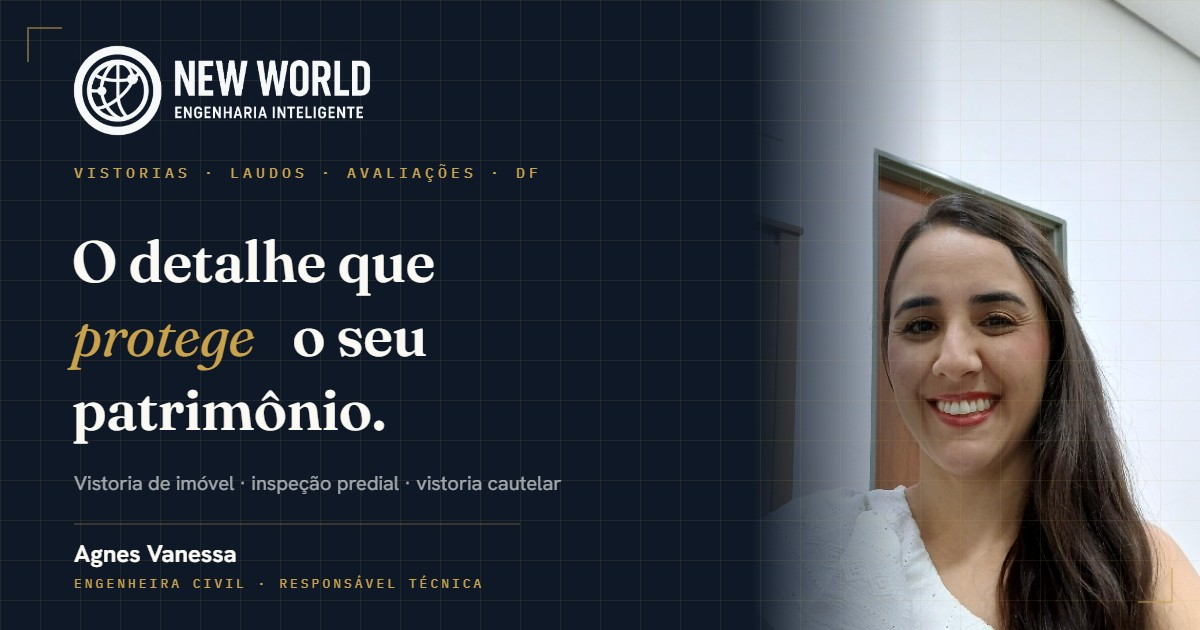
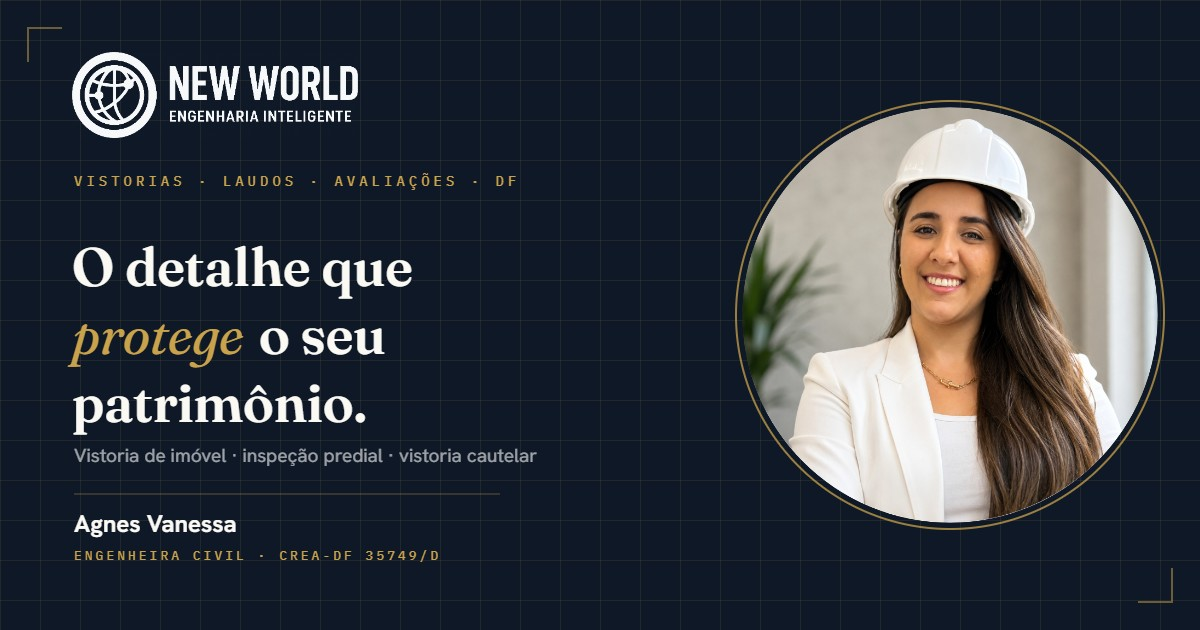
Retrato novo, CREA e pagina de politica de privacidade
Foto profissional de capacete substitui a selfie. Como ela ja vem recortada
em circulo sobre branco, o recorte virou WebP com alfa e a moldura do "Sobre"
passou a exibir o circulo com anel dourado sobre malha tecnica, em vez de
tentar encaixar um quadrado branco num fundo navy. Mesmo retrato alimenta o
avatar do hero e o card de compartilhamento.

CREA-DF 35749/D entra na faixa de credenciais, no "Sobre", no rodape, no card
e no JSON-LD. Numero tirado da politica de privacidade publicada pela Agnes.

A politica saiu do Notion e virou privacidade.html no proprio dominio: o link
publico do Notion mostra banner de "crie sua conta gratuita" para quem clica,
o que nao cabe num site profissional. Texto dela transposto na integra, mais
duas secoes de fato sobre este site (nao ha formularios, cookies nem analytics;
as fontes vem do Google Fonts, que recebe o IP; hospedagem no GitHub Pages) e
sobre as imagens de vistoria publicadas.

diff --git a/privacidade.html b/privacidade.html
@@ -1,0 +1,111 @@
+<!DOCTYPE html>
+<html lang="pt-BR">
+<head>
+<meta charset="UTF-8">
+<meta name="viewport" content="width=device-width, initial-scale=1.0">
+<title>Política de Privacidade · New World Engenharia</title>
+<meta name="description" content="Como a New World Engenharia trata os dados pessoais de clientes e visitantes, em conformidade com a LGPD.">
+<meta name="robots" content="index, follow">
+<meta name="theme-color" content="#0E1826">
+<link rel="canonical" href="https://alexanderjr02.github.io/Site-Agnes-engenheira/privacidade.html">
+<link rel="icon" type="image/png" href="assets/favicon.png">
+<link rel="apple-touch-icon" href="assets/apple-touch-icon.png">
+
+<link rel="preconnect" href="https://fonts.googleapis.com">
+<link rel="preconnect" href="https://fonts.gstatic.com" crossorigin>
+<link href="https://fonts.googleapis.com/css2?family=Fraunces:ital,opsz,wght@0,9..144,400;0,9..144,500;0,9..144,600;1,9..144,400&family=Hanken+Grotesk:wght@400;500;600;700&family=IBM+Plex+Mono:wght@400;500&display=swap" rel="stylesheet">
+<link rel="stylesheet" href="styles.css">
+</head>
+<body>
+
+<header id="hdr" class="scrolled">
+  <div class="wrap nav">
+    <a href="index.html" class="brand">
+      <img class="globe" src="assets/logo-mark.webp" width="128" height="128" alt="" decoding="async">
+      <span>New World<small>Engenharia</small></span>
+    </a>
+    <a class="btn ghost" href="index.html">Voltar ao site</a>
+  </div>
+</header>
+
+<section class="sec legal">
+  <div class="wrap">
+    <span class="eyebrow">Documento</span>
+    <h1>Política de Privacidade</h1>
+    <p class="legal-meta">Última atualização: 3 de julho de 2026</p>
+
+    <p class="legal-intro">A New World Engenharia Inteligente, de responsabilidade de Agnes Vanessa
+    (Engenheira Civil, CREA-DF 35749/D), respeita a privacidade de seus clientes e visitantes, em
+    conformidade com a Lei Geral de Proteção de Dados (LGPD, Lei 13.709/2018).</p>
+
+    <h2>1. Quais dados coletamos</h2>
+    <p>Ao preencher formulários de contato, anúncios ou solicitar orçamentos, podemos coletar:</p>
+    <ul>
+      <li>Nome completo</li>
+      <li>Telefone e WhatsApp</li>
+      <li>E-mail</li>
+      <li>Cidade e bairro do imóvel</li>
+      <li>Informações sobre o serviço de interesse (vistoria, regularização, projeto, licenciamento, entre outros)</li>
+    </ul>
+
+    <h2>2. Para que usamos esses dados</h2>
+    <ul>
+      <li>Entrar em contato para apresentar orçamentos e esclarecer dúvidas</li>
+      <li>Prestar os serviços de engenharia, vistoria e regularização contratados</li>
+      <li>Enviar comunicações sobre nossos serviços, quando autorizado pelo titular</li>
+      <li>Cumprir obrigações legais e regulatórias perante o CREA-DF e demais órgãos aplicáveis</li>
+    </ul>
+
+    <h2>3. Compartilhamento de dados</h2>
+    <p>Não vendemos nem compartilhamos seus dados com terceiros para fins de marketing. Dados podem
+    ser compartilhados apenas com parceiros técnicos estritamente necessários para a execução do
+    serviço contratado, como despachantes e arquitetos parceiros, sempre resguardando o sigilo
+    profissional.</p>
+
+    <h2>4. Armazenamento e segurança</h2>
+    <p>Seus dados são armazenados de forma segura e mantidos apenas pelo tempo necessário para
+    cumprir a finalidade para a qual foram coletados, ou conforme exigido por lei.</p>
+
+    <h2>5. Seus direitos</h2>
+    <p>Você pode, a qualquer momento, solicitar acesso, correção, portabilidade ou exclusão dos seus
+    dados pessoais, entrando em contato pelos canais informados abaixo.</p>
+
+    <h2>6. Sobre este site</h2>
+    <p>Esta página descreve o funcionamento técnico deste site especificamente:</p>
+    <ul>
+      <li>O site não possui formulários. Todo contato acontece por WhatsApp, por meio dos botões da página.</li>
+      <li>O site não usa cookies próprios, não faz rastreamento e não possui ferramentas de análise de audiência.</li>
+      <li>As fontes tipográficas são carregadas do serviço Google Fonts. Para entregá-las, o Google
+      recebe o endereço de IP do visitante, conforme a política de privacidade do próprio Google.</li>
+      <li>A hospedagem é feita pelo GitHub Pages, que mantém registros de acesso ao servidor.</li>
+      <li>Os botões de WhatsApp e Instagram levam a serviços de terceiros, que possuem políticas de
+      privacidade próprias.</li>
+    </ul>
+
+    <h2>7. Imagens de vistoria</h2>
+    <p>As fotografias de imóveis publicadas neste site são registros de vistorias realizadas,
+    divulgadas mediante autorização e sem qualquer identificação de endereço, documento ou
+    proprietário. O titular pode solicitar a remoção de uma imagem a qualquer momento pelos canais
+    de contato.</p>
+
+    <h2>8. Contato</h2>
+    <p>Dúvidas sobre esta política podem ser enviadas pelo
+    <a href="https://wa.me/5561996523362?text=Ol%C3%A1!%20Tenho%20uma%20d%C3%BAvida%20sobre%20a%20pol%C3%ADtica%20de%20privacidade." target="_blank" rel="noopener">WhatsApp (61) 99652-3362</a>
+    ou pelo perfil oficial no Instagram
+    <a href="https://www.instagram.com/newworldengenhariainteligente" target="_blank" rel="noopener">@newworldengenhariainteligente</a>.</p>
+
+    <a class="btn" href="index.html" style="margin-top:40px">Voltar ao site</a>
+  </div>
+</section>
+
+<footer>
+  <div class="wrap">
+    <div class="foot-bottom" style="border-top:0;margin-top:0;padding-top:0">
+      <p>© 2026 New World Engenharia · Todos os direitos reservados</p>
+      <p>Agnes Vanessa · Engenheira Civil · CREA-DF 35749/D</p>
+    </div>
+  </div>
+</footer>
+
+</body>
+</html>

diff --git a/index.html b/index.html
@@ -34,7 +34,7 @@
   "name":"New World Engenharia",
   "description":"Vistoria de imóvel, vistoria cautelar, inspeção predial, avaliação de imóveis e regularização no DF e entorno.",
   "areaServed":"Distrito Federal e entorno",
-  "founder":{"@type":"Person","name":"Agnes Vanessa","jobTitle":"Engenheira Civil"},
+  "founder":{"@type":"Person","name":"Agnes Vanessa","jobTitle":"Engenheira Civil","identifier":"CREA-DF 35749/D"},
   "telephone":"+5561996523362",
   "url":"https://alexanderjr02.github.io/Site-Agnes-engenheira/",
   "sameAs":["https://www.instagram.com/newworldengenhariainteligente"]
@@ -137,6 +137,7 @@
     <span>Avaliação de imóveis</span>
     <span>Patologia da construção</span>
     <span>Laudo técnico assinado</span>
+    <span>CREA-DF 35749/D</span>
     <span>Atendimento no DF e entorno</span>
   </div>
 </div>
@@ -365,12 +366,13 @@
   <div class="wrap">
     <div class="about-grid">
       <div class="portrait reg rev">
-        <img src="assets/agnes.webp" width="900" height="1125" loading="lazy" decoding="async" alt="Agnes Vanessa, Engenheira Civil da New World Engenharia">
+        <img src="assets/agnes.webp" width="760" height="760" loading="lazy" decoding="async" alt="Agnes Vanessa, Engenheira Civil da New World Engenharia, de capacete branco">
       </div>
       <div class="rev">
         <span class="eyebrow">Quem assina o seu laudo</span>
         <h2 style="font-size:clamp(2rem,3.6vw,2.8rem);margin:20px 0 4px">Agnes Vanessa</h2>
         <div class="sig">Engenheira Civil</div>
+        <div class="crea mono">CREA-DF 35749/D</div>
         <p style="color:var(--muted);max-width:520px">Especialista em avaliação de imóveis e patologia da construção civil. Diagnostico, avalio e oriento com precisão, porque acredito que a boa engenharia começa muito antes do problema aparecer.</p>
         <div class="about-list">
           <div class="about-item">
@@ -622,7 +624,7 @@
         <h5>Contato</h5>
         <a href="https://wa.me/5561996523362" target="_blank" rel="noopener">WhatsApp · (61) 99652-3362</a>
         <p>Atendimento no DF e entorno</p>
-        <p>Agnes Vanessa · Engenheira Civil</p>
+        <p>Agnes Vanessa · Engenheira Civil · CREA-DF 35749/D</p>
         <div class="socials" style="margin-top:8px">
           <a href="https://www.instagram.com/newworldengenhariainteligente" target="_blank" rel="noopener" aria-label="Instagram">
             <svg viewBox="0 0 24 24" fill="none" stroke="currentColor" stroke-width="1.7"><rect x="3" y="3" width="18" height="18" rx="5"/><circle cx="12" cy="12" r="4"/><circle cx="17.5" cy="6.5" r="1.2" fill="currentColor" stroke="none"/></svg>
@@ -635,7 +637,7 @@
     </div>
     <div class="foot-bottom">
       <p>© 2026 New World Engenharia · Todos os direitos reservados</p>
-      <p>Precisão que gera confiança</p>
+      <p><a href="privacidade.html">Política de Privacidade</a> · Precisão que gera confiança</p>
     </div>
   </div>
 </footer>

diff --git a/styles.css b/styles.css
@@ -228,11 +228,17 @@ section{position:relative}
   background:#12202f;border:1px solid var(--line);
   display:flex;align-items:center;justify-content:center;
 }
-.portrait img{width:100%;height:100%;object-fit:cover;object-position:50% 20%}
+/* o retrato ja vem recortado em circulo com fundo transparente */
+.portrait::before{content:"";position:absolute;inset:0;
+  background-image:linear-gradient(rgba(201,162,75,.08) 1px,transparent 1px),linear-gradient(90deg,rgba(201,162,75,.08) 1px,transparent 1px);
+  background-size:28px 28px;opacity:.6}
+.portrait img{position:relative;width:78%;height:auto;aspect-ratio:1;border-radius:50%;
+  box-shadow:0 0 0 1px rgba(201,162,75,.5),0 30px 60px -24px rgba(0,0,0,.85)}
 .portrait .ph{text-align:center;padding:30px}
 .portrait .ph svg{width:56px;height:56px;color:var(--gold);opacity:.7;margin:0 auto 16px}
 .portrait .ph .mono{font-size:11px;color:var(--muted);letter-spacing:.16em;line-height:1.8}
 .about .sig{font-family:'Fraunces',serif;font-style:italic;font-size:1.5rem;color:var(--gold);margin:22px 0 6px}
+.about .crea{font-size:11px;color:var(--muted-2);margin-bottom:14px}
 .about-list{margin-top:30px;display:flex;flex-direction:column;gap:22px}
 .about-item{display:flex;gap:18px;align-items:flex-start}
 .about-item .ai{flex:0 0 40px;width:40px;height:40px;border:1px solid var(--line);border-radius:10px;display:flex;align-items:center;justify-content:center;color:var(--gold)}
@@ -372,6 +378,21 @@ footer{background:var(--midnight);border-top:1px solid var(--line);padding:64px 
   background:#25D366;display:flex;align-items:center;justify-content:center;box-shadow:0 12px 30px -8px rgba(37,211,102,.6);transition:.3s}
 .wa-float:hover{transform:scale(1.08)}
 .wa-float svg{width:30px;height:30px;color:#fff}
+
+/* ---------- pagina de politica de privacidade ---------- */
+.legal{padding-top:150px;max-width:none}
+.legal .wrap{max-width:780px}
+.legal h1{font-size:clamp(2.2rem,4.4vw,3rem);margin:20px 0 10px}
+.legal h2{font-size:1.25rem;color:var(--gold);margin:40px 0 12px}
+.legal p,.legal li{color:var(--muted);font-size:16px;line-height:1.7}
+.legal p+p{margin-top:12px}
+.legal ul{margin:12px 0 0;padding-left:22px}
+.legal li{margin-bottom:7px}
+.legal li::marker{color:var(--gold)}
+.legal a{color:var(--gold-soft);text-decoration:underline;text-underline-offset:3px}
+.legal-meta{font-family:'IBM Plex Mono',monospace;font-size:11.5px;letter-spacing:.14em;
+  text-transform:uppercase;color:var(--muted-2);margin-bottom:30px}
+.legal-intro{font-size:17.5px;color:var(--white);border-left:2px solid var(--gold);padding-left:20px}
 
 /* reveal */
 .rev{opacity:0;transform:translateY(26px);transition:opacity .7s cubic-bezier(.2,.7,.2,1),transform .7s cubic-bezier(.2,.7,.2,1)}

diff --git a/README.md b/README.md
@@ -9,6 +9,7 @@ regularização e patologia da construção. Atendimento no DF e entorno.
 | Arquivo | Responsabilidade |
 | --- | --- |
 | `index.html` | Estrutura e conteúdo da página |
+| `privacidade.html` | Política de privacidade, linkada no rodapé |
 | `styles.css` | Toda a estilização (variáveis de cor, tipografia, seções, responsivo) |
 | `script.js` | Comportamento (nav ao rolar, menu mobile, FAQ sanfona, vídeos, animação de entrada) |
 | `assets/logo-mark.webp` | Símbolo da logo em dourado, usado no topo e no rodapé |
@@ -63,7 +64,11 @@ que acontece se ninguém olhar. Foto sem leitura técnica é só foto de parede.
 ## Ainda a fazer
 
 - Inserir os depoimentos reais de clientes (2 espaços já reservados na seção "Depoimentos").
-- Confirmar número de CREA para exibir como selo de confiança.
+- Conferir com a Agnes se o CREA-DF 35749/D está correto. O número veio da política de
+  privacidade que ela publicou e hoje aparece na faixa de credenciais, no "Sobre",
+  no rodapé, no card de compartilhamento e nos dados estruturados.
+- A política de privacidade foi transposta do Notion dela para `privacidade.html`.
+  Se ela editar o original, o site não atualiza sozinho.
 - Pedir o arquivo vetorial da logo (.ai, .eps ou .svg). O símbolo em uso hoje foi
   recortado do PNG e recolorido; com o vetor ele fica perfeito em qualquer tamanho.
 - Avaliar um serviço novo na grade: projeto de prevenção e combate a incêndio.
